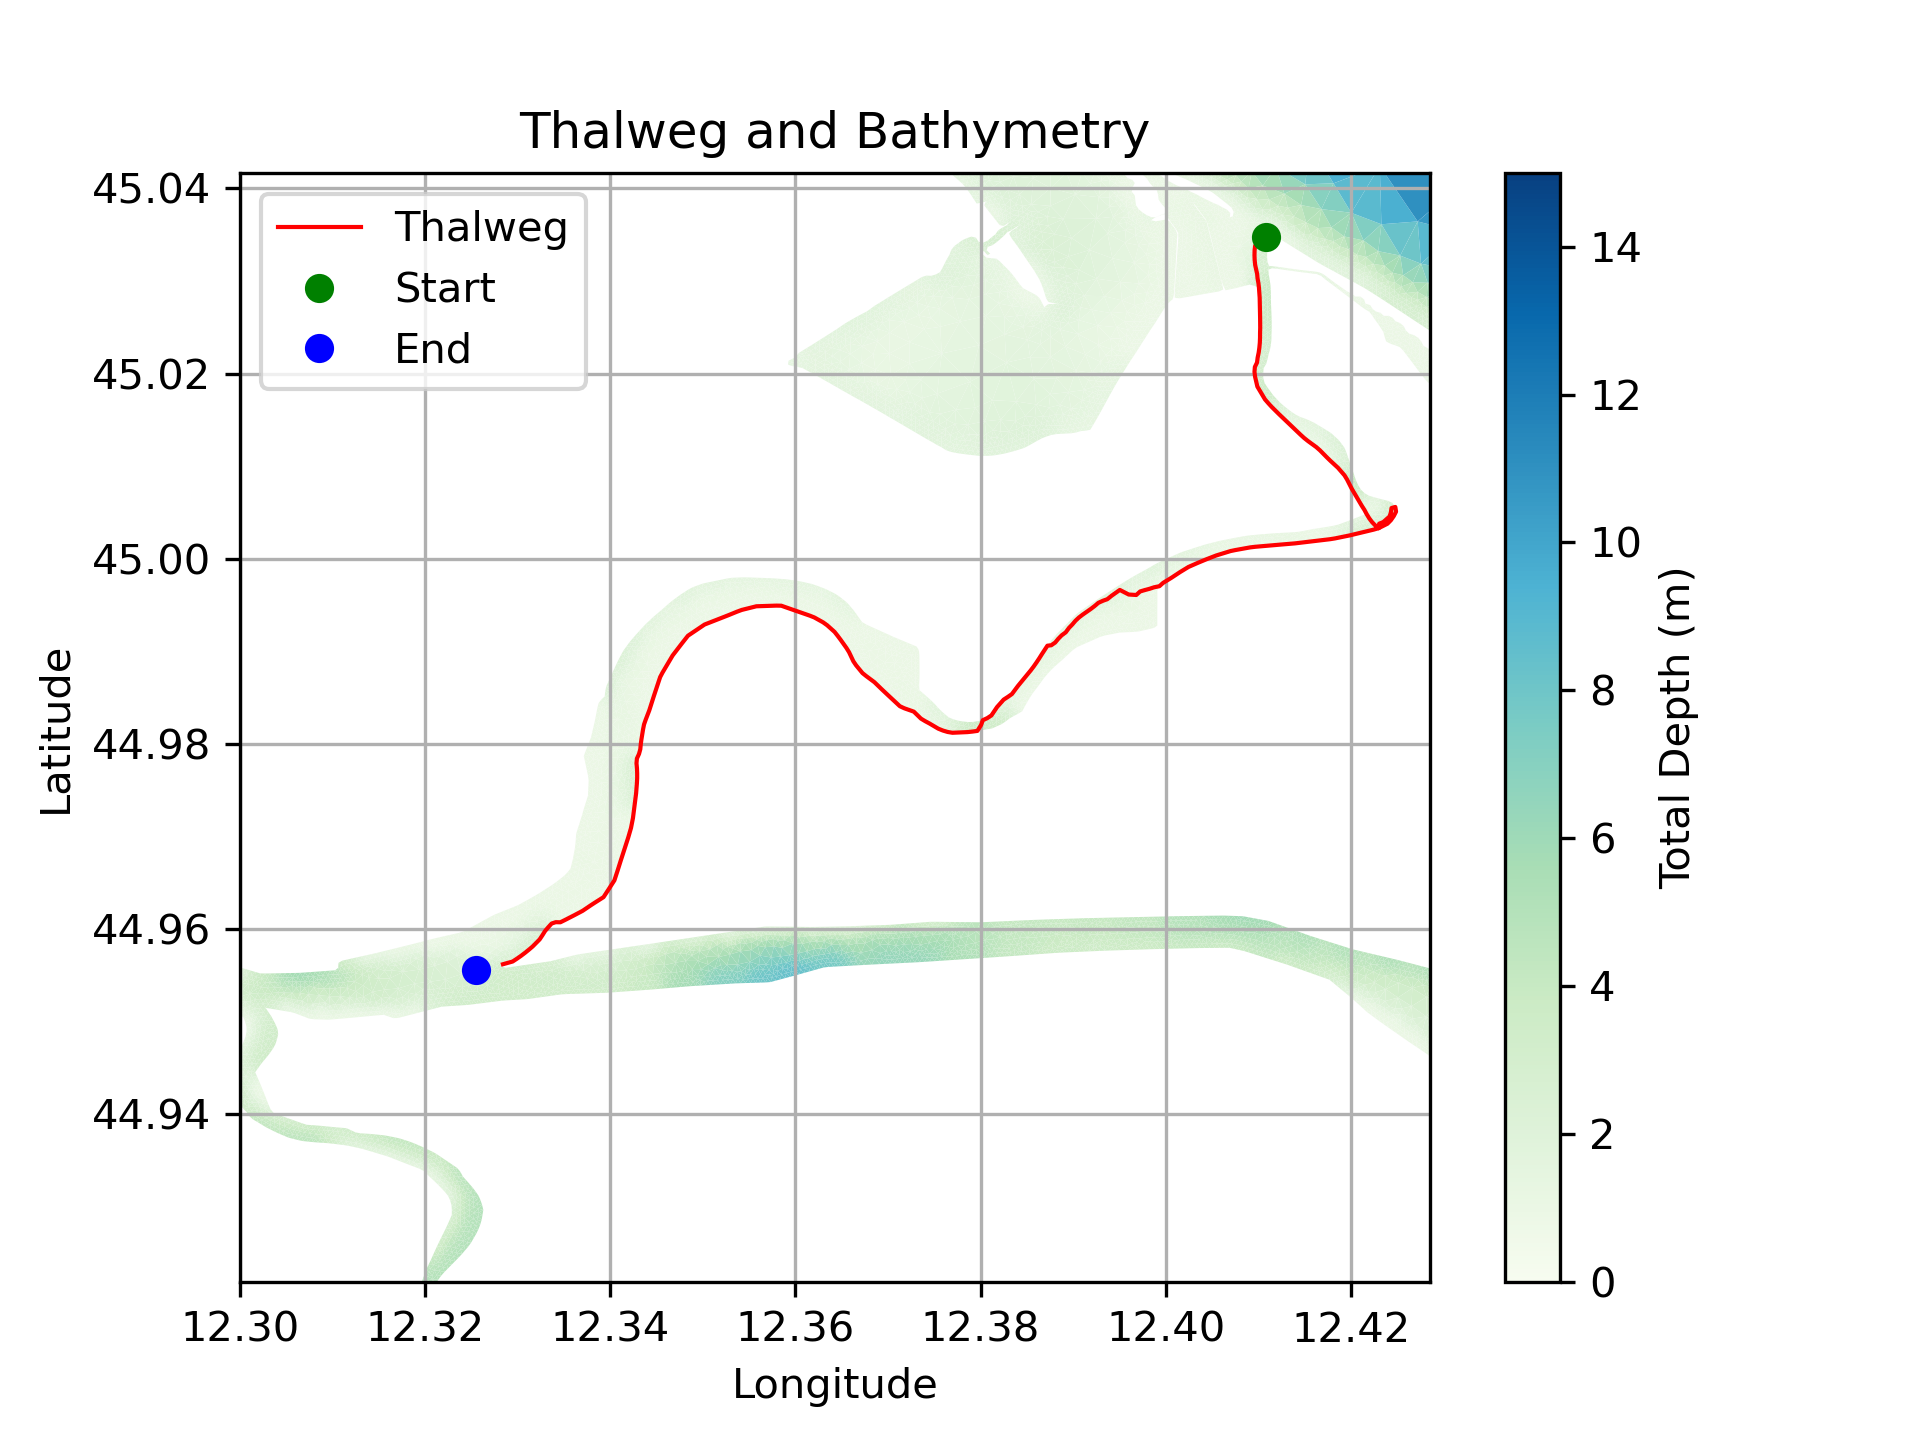
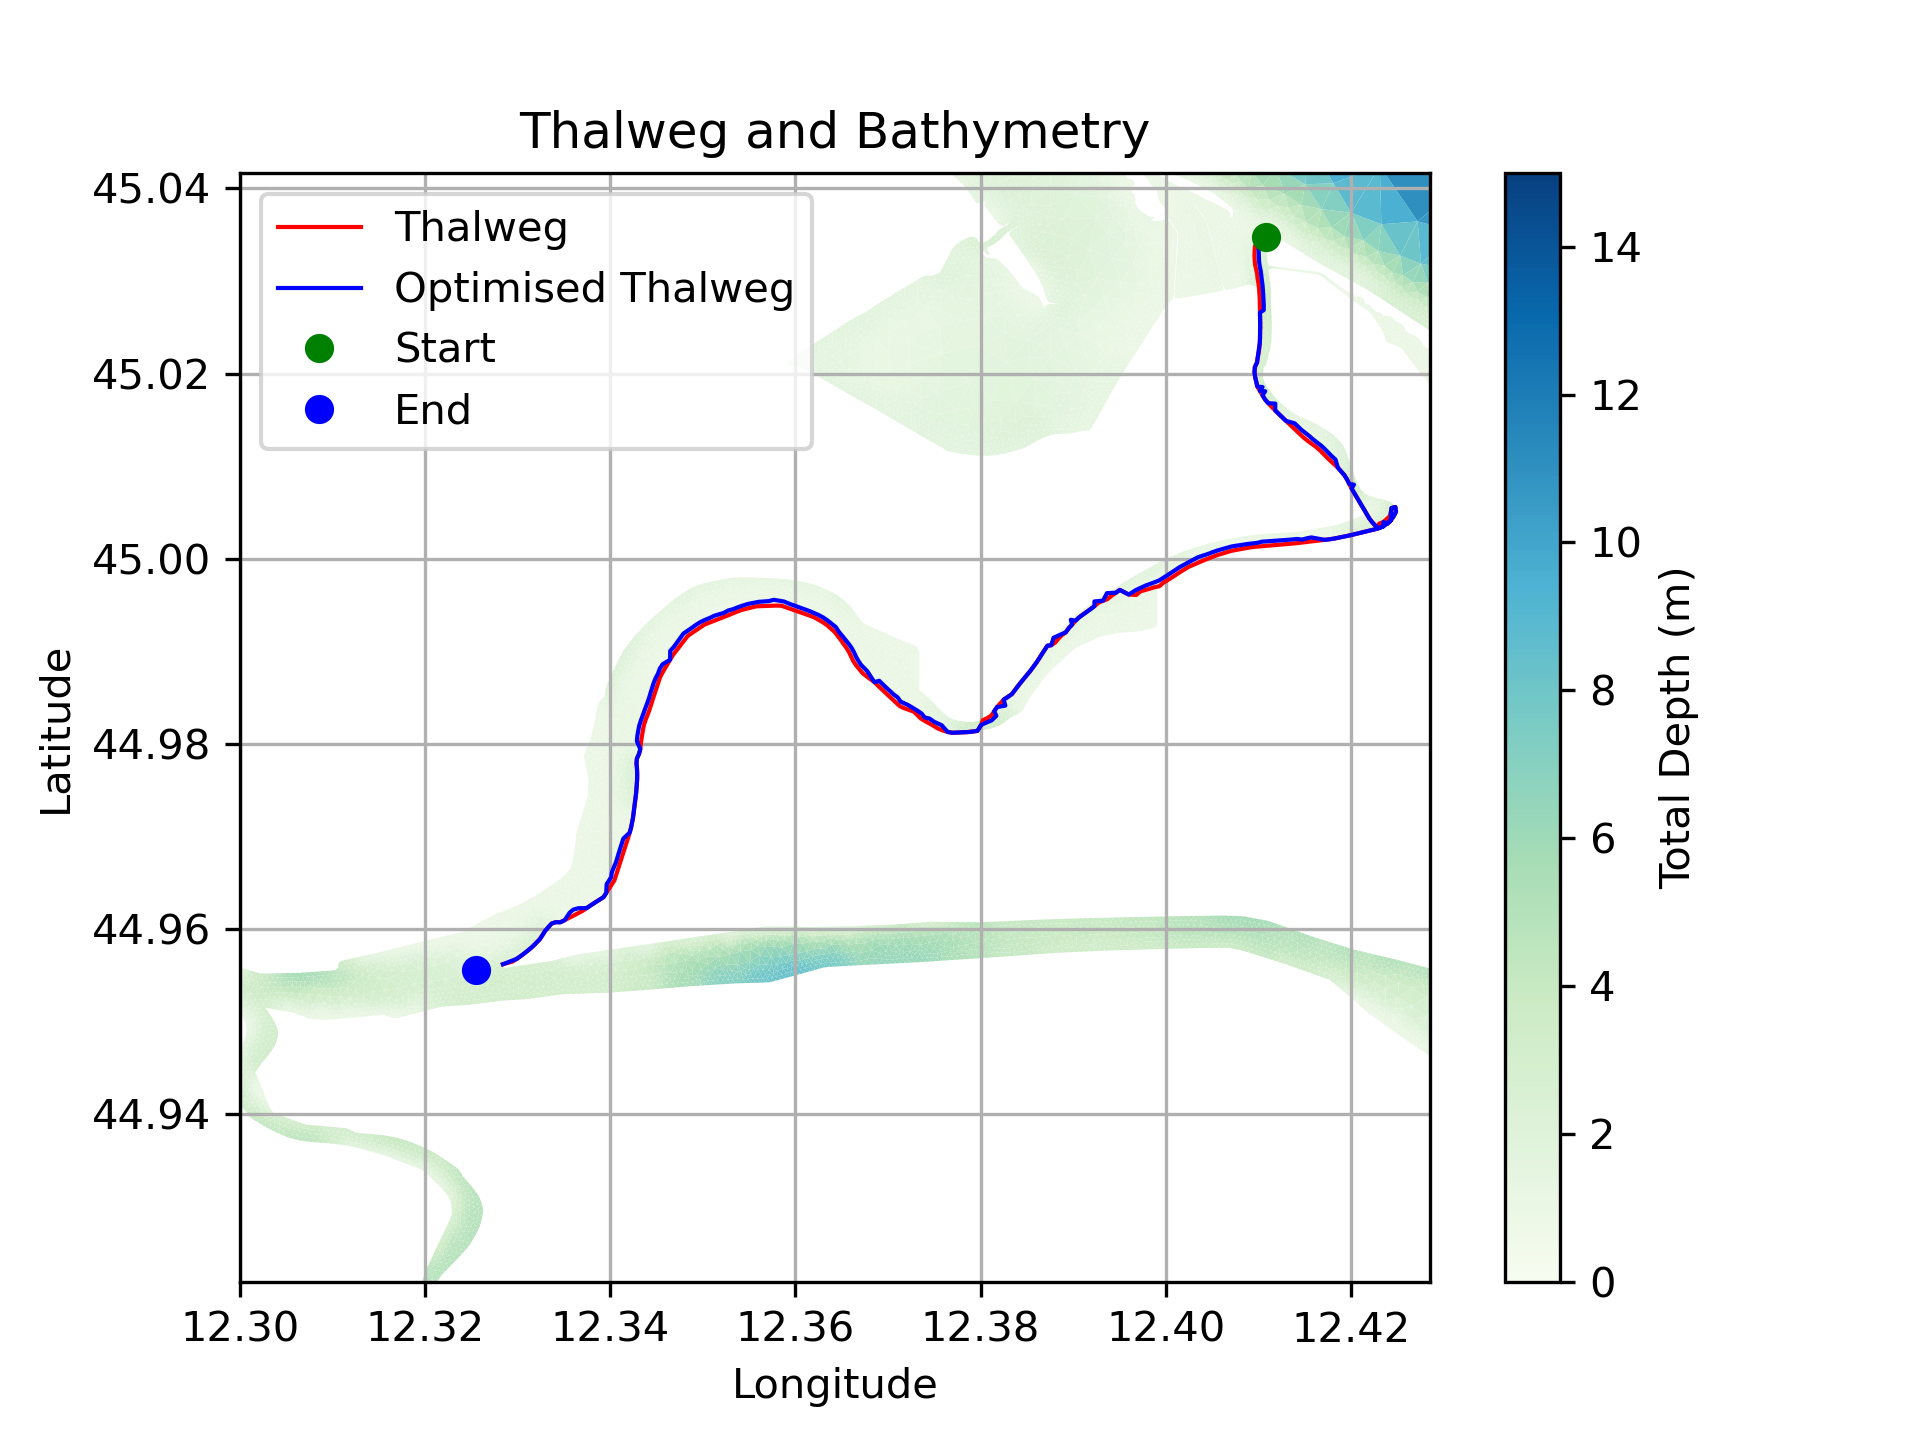
Implemented path optimisation

diff --git a/etico.py b/etico.py
@@ -35,6 +35,29 @@ angles = {
 
 #############################################################
 #
+# Optimisation Function
+#
+#############################################################
+
+def refine_path_by_depth(path, depths, node_neighbors):
+    new_path = path.copy()
+    for i in range(1, len(path)-1):  # ignora il primo e ultimo punto
+        current = path[i]
+        neighbors = node_neighbors.get(current, [])
+
+        # Trova il vicino con profondità maggiore del punto corrente
+        best = current
+        for n in neighbors:
+            if depths[n] > depths[best]:
+                best = n
+
+        if best != current:
+            new_path[i] = best
+    return new_path
+
+
+#############################################################
+#
 # Haversine Function
 #
 #############################################################
@@ -323,6 +346,15 @@ if __name__ == "__main__":
         
     #############################################################
     #
+    # refine path
+    #
+    #############################################################
+   
+    refined_path = refine_path_by_depth(path, depths, node_neighbors)        
+
+    
+    #############################################################
+    #
     # CSV output
     #
     #############################################################
@@ -335,7 +367,7 @@ if __name__ == "__main__":
         
         for lat, lon, depth in zip(lats[path], lons[path], depths[path]):
             writer.writerow([lat, lon, depth])
-
+            
             
     #############################################################
     #
@@ -343,4 +375,4 @@ if __name__ == "__main__":
     #
     #############################################################
 
-    plot(lons, lats, elements, depths, path, original_start_idx, end_idx, config_dict)
+    plot(lons, lats, elements, depths, path, refined_path, original_start_idx, end_idx, config_dict)

diff --git a/libs/libplot.py b/libs/libplot.py
@@ -26,7 +26,7 @@ matplotlib.use('TkAgg')
 #
 #############################################################
 
-def plot(lons, lats, elements, depths, path, start_idx, end_idx, config):
+def plot(lons, lats, elements, depths, path, refined_path, start_idx, end_idx, config):
 
     """Plot function to show the thalweg over the bathymetry map"""
     
@@ -35,6 +35,7 @@ def plot(lons, lats, elements, depths, path, start_idx, end_idx, config):
     tpc = plt.tripcolor(triang, depths, cmap=config["Plot"]["colormap"], vmin=config["Plot"]["cbarmin"], vmax=config["Plot"]["cbarmax"], edgecolors='k', linewidth=0)  
     plt.colorbar(tpc, label='Total Depth (m)')
     plt.plot(lons[path], lats[path], 'r-', linewidth=1, label='Thalweg')
+    plt.plot(lons[refined_path], lats[refined_path], 'b-', linewidth=1, label='Optimised Thalweg')    
     plt.plot(lons[start_idx], lats[start_idx], 'go', label='Start')
     plt.plot(lons[end_idx], lats[end_idx], 'bo', label='End')
     plt.xlabel("Longitude")
